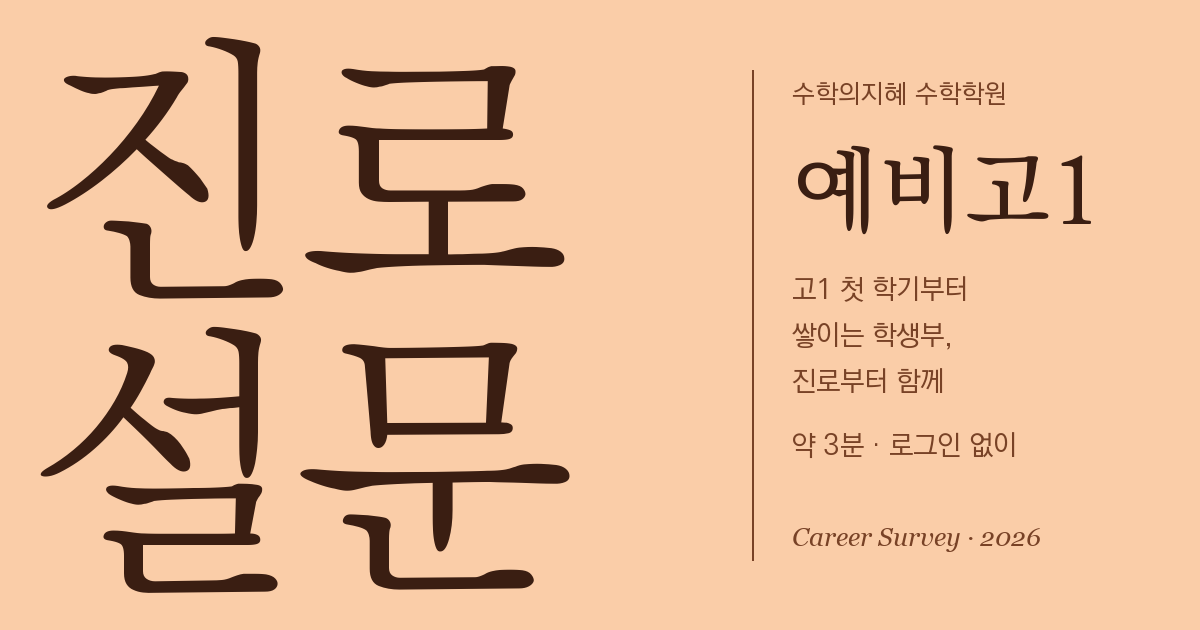
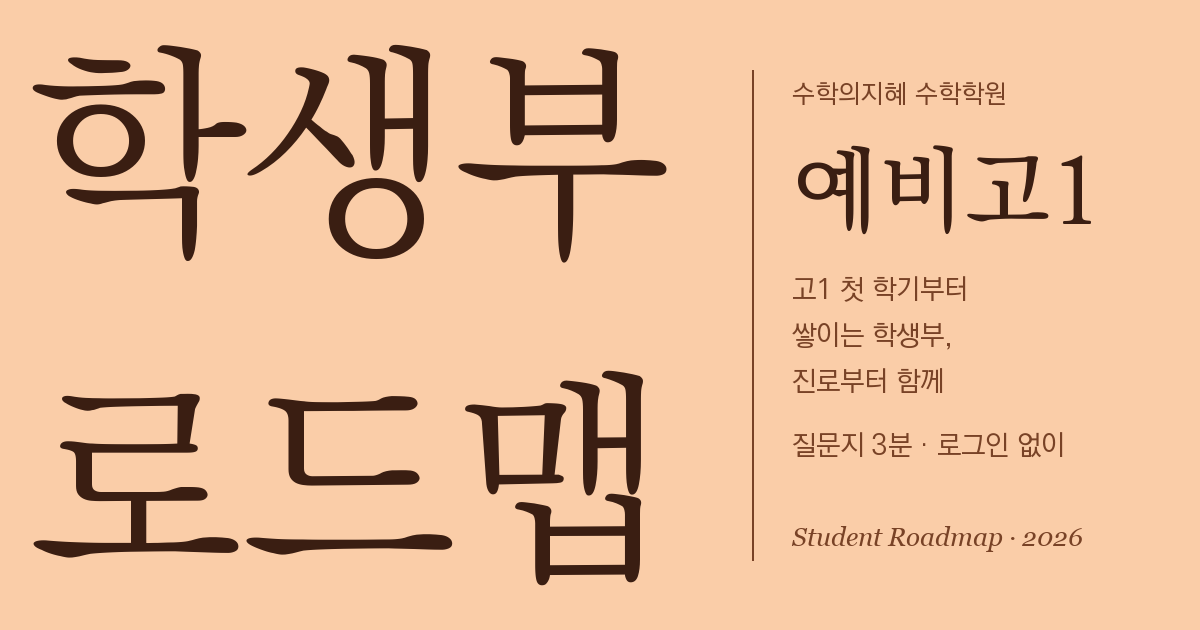
이름을 「학생부 로드맵」으로 — 질문지·띠·문자·메뉴·썸네일 (원장님 2026-11-07 「진로설문 말고 더 좋은 단어」)

diff --git a/app/teacher/manual/page.tsx b/app/teacher/manual/page.tsx
@@ -196,13 +196,13 @@ const GROUPS: ManualGroup[] = [
         ],
       },
       {
-        href: '/teacher/career', label: '진로·활동 기록', icon: 'ti-compass',
-        summary: '예비고1(현 중3)·예비고2(현 고1) 진로 설문과 개인정보 동의, 탐구보고서·세특 같은 활동 기록을 한곳에서 봐요. 담당 학생만 보여요.',
+        href: '/teacher/career', label: '학생부 로드맵', icon: 'ti-compass',
+        summary: '예비고1(현 중3)·예비고2(현 고1) 학생부 로드맵 질문지(진로 설문)와 개인정보 동의, 탐구보고서·세특 같은 활동 기록을 한곳에서 봐요. 담당 학생만 보여요.',
         steps: [
           '「① 설문 안내 · 미리보기」 탭 — 설문이 **누구에게 · 어디에 · 어떤 순서로** 나가는지와 문항 전체가 나와요.',
           '「👀 미리보기」는 학생·학부모가 보는 설문지를 그대로 띄워요(저장 안 됨). 「학생 화면으로 / 학부모 화면으로」를 바꿔 볼 수 있어요.',
           '「🧪 테스트 학생으로 해 보기」는 **실제로 저장**돼요. 원장님은 윤수지, 선생님은 「테스트」 학생으로 저장되고, 「응답 현황」·「학생별 기록」에 바로 보여요.',
-          '학생·학부모는 **문자로 받은 자기 링크**를 누르면 로그인 없이 바로 설문이 열려요(설명회 설문처럼). 앱에 로그인하면 첫 화면 「진로 설문」 띠로도 할 수 있어요. 1단계가 개인정보 동의(입학 동의와 별도)예요.',
+          '학생·학부모는 **문자로 받은 자기 링크**를 누르면 로그인 없이 바로 설문이 열려요(설명회 설문처럼). 앱에 로그인하면 첫 화면 「학생부 로드맵」 띠로도 할 수 있어요. 1단계가 개인정보 동의(입학 동의와 별도)예요.',
           '「② 응답 현황」 탭 — 설문별 학생·학부모 응답 수, 무엇을 골랐는지(계열·선택과목 …), 학생별 응답 표. 원장님은 여기 「📩 설문 문자 보내기」에서 학부모(보호자 번호)·학생(학생 번호)에게 각자 링크를 넣어 보내요(받는 분 확인 → 이대로 보내기).',
           '학생 번호는 **학생관리 › 학생 수정의 「학생 연락처」** 칸에 있어요. 「③ 학생별 기록」에서 학생을 누르면 그 학생의 학생용·학부모용 링크를 복사할 수 있어요(카톡으로 따로 보낼 때).',
           '설문 문자에는 **왜 하는지**가 앞에 들어 있어요 — 고등은 내신만이 아니라 생활기록부에 남는 비교과(탐구·세특·동아리)도 함께 쌓여야 하고, 미리 진로를 알아야 필요한 자료를 챙겨 드릴 수 있다는 안내예요 (원장님 2026-11-07).',

diff --git a/components/career/teacher/shared.tsx b/components/career/teacher/shared.tsx
@@ -37,13 +37,13 @@ export const SMS_PARENT = '[수학의지혜]\n'
   + '안녕하세요, {이름} 학생 어머님·아버님. 수학의지혜입니다.\n'
   + '고등학교 성적은 내신으로만 끝나지 않습니다. 생활기록부에 남는 탐구·세특·동아리 같은 비교과 활동도 함께 쌓여야 합니다.\n'
   + '그래서 학생의 진로 방향을 미리 확인해 두려고 합니다. 필요한 자료를 그때그때 확보해 두고, 학교·학년별로 알아야 할 정보를 함께 나눠 드릴 예정입니다.\n'
-  + '짧은 진로 설문(3분)에 응해 주세요. 로그인 없이 아래 주소를 누르시면 바로 하실 수 있어요.\n'
+  + '「학생부 로드맵」 질문지(3분)에 응해 주세요. 로그인 없이 아래 주소를 누르시면 바로 하실 수 있어요.\n'
   + '{링크}'
 export const SMS_STUDENT = '[수학의지혜]\n'
   + '{이름} 학생, 안녕하세요! 수학의지혜예요.\n'
   + '고등학교는 내신만큼 생활기록부에 남는 탐구·세특·동아리 같은 비교과 활동도 중요해요.\n'
   + '진로 방향을 미리 알아 두면 필요한 자료와 정보를 그때그때 챙겨 줄 수 있어요.\n'
-  + '짧은 진로 설문(3분)에 답해 주세요. 아래 주소를 누르면 바로 할 수 있어요.\n'
+  + '「학생부 로드맵」 질문지(3분)에 답해 주세요. 아래 주소를 누르면 바로 할 수 있어요.\n'
   + '{링크}'
 
 export const fmtDate = (iso: string) => new Date(iso).toLocaleDateString('ko-KR', { month: 'numeric', day: 'numeric' })

diff --git a/components/career/teacher/RecordsTab.tsx b/components/career/teacher/RecordsTab.tsx
@@ -166,7 +166,7 @@ export default function RecordsTab({ students, consents, surveys, acts, setActs,
               </Card>
 
               <Card>
-                <h3 className="text-sm font-bold text-gray-700">진로 설문 답</h3>
+                <h3 className="text-sm font-bold text-gray-700">질문지 답</h3>
                 <div className="mt-2 grid md:grid-cols-2 gap-3">
                   {(['student', 'parent'] as const).map((role) => {
                     const list = surveysOf(sel.id, role)
@@ -305,7 +305,7 @@ function LinkRow({ studentId, canHave, phone }: { studentId: string; canHave: bo
     <div className="mt-3 flex flex-wrap items-center gap-2 text-xs">
       <span className="text-gray-500">학생 번호 {phone ? <b className="text-gray-700">{phone}</b> : <span className="text-amber-600">없음 (학생관리에서 입력)</span>}</span>
       <span className="text-gray-300">|</span>
-      <span className="text-gray-500">진로 설문 링크</span>
+      <span className="text-gray-500">질문지 링크</span>
       <button onClick={() => copy('student')} className="px-2 py-1 rounded-lg border" style={{ borderColor: LINE }}>학생용 복사</button>
       <button onClick={() => copy('parent')} className="px-2 py-1 rounded-lg border" style={{ borderColor: LINE }}>학부모용 복사</button>
       <button onClick={() => openIt('student')} className="px-2 py-1 rounded-lg border" style={{ borderColor: LINE }}>학생용 열어 보기 ↗</button>

diff --git a/components/career/teacher/GuideTab.tsx b/components/career/teacher/GuideTab.tsx
@@ -28,7 +28,7 @@ export default function GuideTab({ counts, myTestId, onTested }: {
   return (
     <div className="space-y-4">
       <Card>
-        <h2 className="text-base font-bold" style={{ color: GREEN }}>진로 설문은 이렇게 진행됩니다</h2>
+        <h2 className="text-base font-bold" style={{ color: GREEN }}>학생부 로드맵 질문지는 이렇게 진행됩니다</h2>
         <p className="text-xs text-gray-500 mt-1">설문 차수 {SURVEY_ROUND} · 한 학생에 학생 답 1장 + 학부모 답 1장</p>
 
         <div className="mt-4 grid md:grid-cols-2 gap-3 text-sm">
@@ -40,7 +40,7 @@ export default function GuideTab({ counts, myTestId, onTested }: {
           </Box>
           <Box t="② 어떻게 받나">
             <b>문자</b>로 나가요 (설명회 설문처럼). 학생·학부모마다 <b>자기 링크</b>가 들어 있어서 <b>로그인 없이</b> 누르면 바로 설문이 열려요.
-            <div className="text-xs text-gray-500 mt-1">학부모는 보호자 번호로, 학생은 학생 번호로 갑니다. 앱에 로그인하면 첫 화면 「진로 설문」 띠로도 할 수 있어요.</div>
+            <div className="text-xs text-gray-500 mt-1">학부모는 보호자 번호로, 학생은 학생 번호로 갑니다. 앱에 로그인하면 첫 화면 「학생부 로드맵」 띠로도 할 수 있어요.</div>
           </Box>
           <Box t="③ 어떤 순서로">
             <ol className="space-y-0.5">

diff --git a/components/career/CareerBanner.tsx b/components/career/CareerBanner.tsx
@@ -28,15 +28,15 @@ export default function CareerBanner({ studentId, grade, href }: { studentId: st
 
   if (answered) return (
     <Link href={href} className="block rounded-2xl px-4 py-2.5 text-xs" style={{ background: '#F0FBF7', color: '#0F6E56', border: '1px solid #C7DED6' }}>
-      🧭 진로 설문을 보냈어요 · 보낸 답 보기 · 고치기 →
+      🧭 학생부 로드맵 질문지를 보냈어요 · 보낸 답 보기 · 고치기 →
     </Link>
   )
   return (
     <Link href={href} className="block rounded-2xl px-4 py-3.5" style={{ background: '#085041', color: '#fff' }}>
       <div className="text-[11px] font-bold tracking-widest opacity-80">
-        수학의지혜 {st.isTest ? '진로' : FORMS[form].label + ' 진로'} 설문{st.isTest ? ' · 🧪 테스트 학생' : ''}
+        수학의지혜 {st.isTest ? '' : FORMS[form].label + ' '}학생부 로드맵{st.isTest ? ' · 🧪 테스트 학생' : ''}
       </div>
-      <div className="text-[15px] font-bold mt-0.5">진로 설문에 답해 주세요 (약 3분)</div>
+      <div className="text-[15px] font-bold mt-0.5">학생부 로드맵 질문지에 답해 주세요 (약 3분)</div>
       <div className="text-xs mt-1 opacity-90">적어 준 진로에 맞춰 선택과목·탐구 주제를 챙겨 드려요 →</div>
     </Link>
   )

diff --git a/components/teacher/Sidebar.tsx b/components/teacher/Sidebar.tsx
@@ -31,7 +31,7 @@ const ITEM = {
   consultations: { href: '/teacher/consultations',  label: '상담내역',     icon: 'ti-message-circle' },
   schools:       { href: '/teacher/schools',        label: '학교 자료집',  icon: 'ti-school' },
   // 진로 설문·개인정보 동의·탐구보고서·세특 기록 (원장님 2026-11-07). 강사는 본인 담당 학생만 보인다.
-  career:        { href: '/teacher/career',         label: '진로·활동 기록', icon: 'ti-compass' },
+  career:        { href: '/teacher/career',         label: '학생부 로드맵', icon: 'ti-compass' },
   // ★ 이 화면과 「학습지 출제」(원장 전용)는 이름이 거의 같아 헷갈렸다.
   //   2026-10-26 에 「학습지 배부」로 갈랐다가, 배부만 하는 곳이 아니라 배정·점수·다음 단계까지
   //   하는 곳이라 2026-10-29 에 화면 제목과 같은 「학습지관리」로 되돌렸다 (원장님 지시).

diff --git a/app/api/career/links/route.ts b/app/api/career/links/route.ts
@@ -21,7 +21,7 @@ export async function POST(req: Request) {
   const { data: s } = await db.from('students').select('id, name, grade').eq('id', String(b?.studentId ?? '')).maybeSingle()
   if (!s) return NextResponse.json({ error: '학생을 찾지 못했어요.' }, { status: 404 })
   const form = formForSend(s, b?.testForm)
-  if (!form) return NextResponse.json({ error: '진로 설문 대상 학년(중3·고1)이 아니에요.' }, { status: 400 })
+  if (!form) return NextResponse.json({ error: '학생부 로드맵 질문지 대상 학년(중3·고1)이 아니에요.' }, { status: 400 })
   const [st, pa] = [await ensureLink(db, s.id, 'student', form), await ensureLink(db, s.id, 'parent', form)]
   return NextResponse.json({ form, student: linkUrl(st), parent: linkUrl(pa) })
 }

diff --git a/components/career/CareerSurvey.tsx b/components/career/CareerSurvey.tsx
@@ -78,7 +78,7 @@ export default function CareerSurvey() {
   if (!st) return <div className="p-10 text-center text-gray-400 text-sm">불러오는 중…</div>
   if (!form) return (
     <div className="p-8 text-center text-sm text-gray-600 leading-relaxed">
-      진로 설문은 지금 <b>중3(예비고1)</b>·<b>고1(예비고2)</b> 학생과 학부모님께 받고 있어요.<br />
+      학생부 로드맵 질문지는 지금 <b>중3(예비고1)</b>·<b>고1(예비고2)</b> 학생과 학부모님께 받고 있어요.<br />
       {st.student.name} 학생({st.student.grade ?? '-'})은 대상이 아니에요.
       <div><button onClick={back} className="mt-4 underline text-gray-500">돌아가기</button></div>
     </div>

diff --git a/components/career/CareerSurveyForm.tsx b/components/career/CareerSurveyForm.tsx
@@ -93,7 +93,7 @@ export default function CareerSurveyForm({
         {onBack && (
           <button onClick={onBack} className="mb-2 text-[12px] opacity-80">← 돌아가기</button>
         )}
-        <p className="text-[11px] font-bold tracking-widest opacity-80">수학의지혜 {F.label} 진로 설문</p>
+        <p className="text-[11px] font-bold tracking-widest opacity-80">수학의지혜 {F.label} 학생부 로드맵 질문지</p>
         <h1 className="mt-1.5 text-[22px] font-bold leading-tight whitespace-pre-line">{F.heading}</h1>
         <p className="mt-2 text-[12.5px] opacity-90">{F.lead}</p>
         <p className="mt-3 text-[11.5px] leading-relaxed opacity-75">

diff --git a/app/c/[token]/layout.tsx b/app/c/[token]/layout.tsx
@@ -30,7 +30,7 @@ export async function generateMetadata(
     } catch { /* 못 읽으면 기본 그림 */ }
   }
 
-  const title = form ? `수학의지혜 ${FORMS[form].label} 진로 설문` : '수학의지혜 진로 설문'
+  const title = form ? `수학의지혜 ${FORMS[form].label} 학생부 로드맵` : '수학의지혜 학생부 로드맵'
   const description = form === 'pre1'
     ? '고1 첫 학기부터 학생부가 쌓입니다 — 진로에 맞춰 미리 준비해요 · 약 3분, 로그인 없이'
     : form === 'pre2'

diff --git a/app/teacher/career/page.tsx b/app/teacher/career/page.tsx
@@ -71,7 +71,7 @@ export default function TeacherCareerPage() {
 
   return (
     <div className="min-h-screen bg-gray-50">
-      <Header title="진로·활동 기록" subtitle="진로 설문 · 개인정보 동의 · 탐구보고서 · 세특" />
+      <Header title="학생부 로드맵" subtitle="질문지 · 개인정보 동의 · 탐구보고서 · 세특" />
       <div className="p-4 lg:p-6 space-y-4">
         <div className="flex gap-2 flex-wrap border-b pb-3" style={{ borderColor: LINE }}>
           {TABS.map((t) => (

diff --git a/scripts/make-career-og.py b/scripts/make-career-og.py
@@ -19,6 +19,7 @@ import os
 from PIL import Image, ImageDraw, ImageFont
 
 W, H = 1200, 630
+BIG = ('학생부', '로드맵')
 UF = os.path.join(os.environ.get('LOCALAPPDATA', ''), 'Microsoft', 'Windows', 'Fonts')
 SERIF = os.path.join(UF, 'KoPubWorld Batang Light.ttf')
 SERIF_M = os.path.join(UF, 'KoPubWorld Batang Medium.ttf')
@@ -58,11 +59,12 @@ def make(name, grade_label, lines, theme):
 
     # 큰 글씨 두 줄 — 「진로」「설문」. 화면 왼쪽을 꽉 채운다
     #   글씨 상자의 위·아래 여백을 재서, 첫 줄 위 = 36px · 둘째 줄 아래 = H-36px 에 딱 맞춘다
-    big = ImageFont.truetype(SERIF, 288)
-    t1 = d.textbbox((0, 0), '진로', font=big)
-    t2 = d.textbbox((0, 0), '설문', font=big)
-    put('진로', (30, 36 - t1[1]), '진로', big, ink)
-    put('설문', (30, H - 36 - t2[3]), '설문', big, ink)
+    #   이름 「학생부 로드맵」 (원장님 2026-11-07 — 「진로 설문」보다 나은 말로)
+    big = ImageFont.truetype(SERIF, 228)
+    t1 = d.textbbox((0, 0), BIG[0], font=big)
+    t2 = d.textbbox((0, 0), BIG[1], font=big)
+    put(BIG[0], (30, 44 - t1[1]), BIG[0], big, ink)
+    put(BIG[1], (30, H - 44 - t2[3]), BIG[1], big, ink)
 
     # 오른쪽 세로 단 — 포장 옆의 작은 글씨처럼. 가는 세로선 하나로 큰 글씨와 가른다
     col_x = 752
@@ -81,7 +83,7 @@ def make(name, grade_label, lines, theme):
             y += 18   # 마지막 줄(약 3분 · 로그인 없이)은 설명과 한 칸 띄운다
         put(f'설명{i}', (x, y), t, f_line, sub)
         y += 46
-    put('영문', (x, H - 108), 'Career Survey · 2026', f_latin, sub)
+    put('영문', (x, H - 108), 'Student Roadmap · 2026', f_latin, sub)
 
     out = os.path.join('public', 'og', name)
     os.makedirs(os.path.dirname(out), exist_ok=True)
@@ -90,6 +92,6 @@ def make(name, grade_label, lines, theme):
 
 
 if __name__ == '__main__':
-    make('career-pre1.png', '예비고1', ['고1 첫 학기부터', '쌓이는 학생부,', '진로부터 함께', '약 3분 · 로그인 없이'], 'orange')
-    make('career-pre2.png', '예비고2', ['선택과목 · 탐구 ·', '비교과를 진로에', '맞춰 함께', '약 3분 · 로그인 없이'], 'pink')
-    make('career.png', '고등 준비', ['내신 + 비교과,', '진로에 맞춰', '함께 챙깁니다', '약 3분 · 로그인 없이'], 'pink')
+    make('career-pre1.png', '예비고1', ['고1 첫 학기부터', '쌓이는 학생부,', '진로부터 함께', '질문지 3분 · 로그인 없이'], 'orange')
+    make('career-pre2.png', '예비고2', ['선택과목 · 탐구 ·', '비교과를 진로에', '맞춰 함께', '질문지 3분 · 로그인 없이'], 'pink')
+    make('career.png', '고등 준비', ['내신 + 비교과,', '진로에 맞춰', '함께 챙깁니다', '수학의지혜가 함께'], 'pink')
